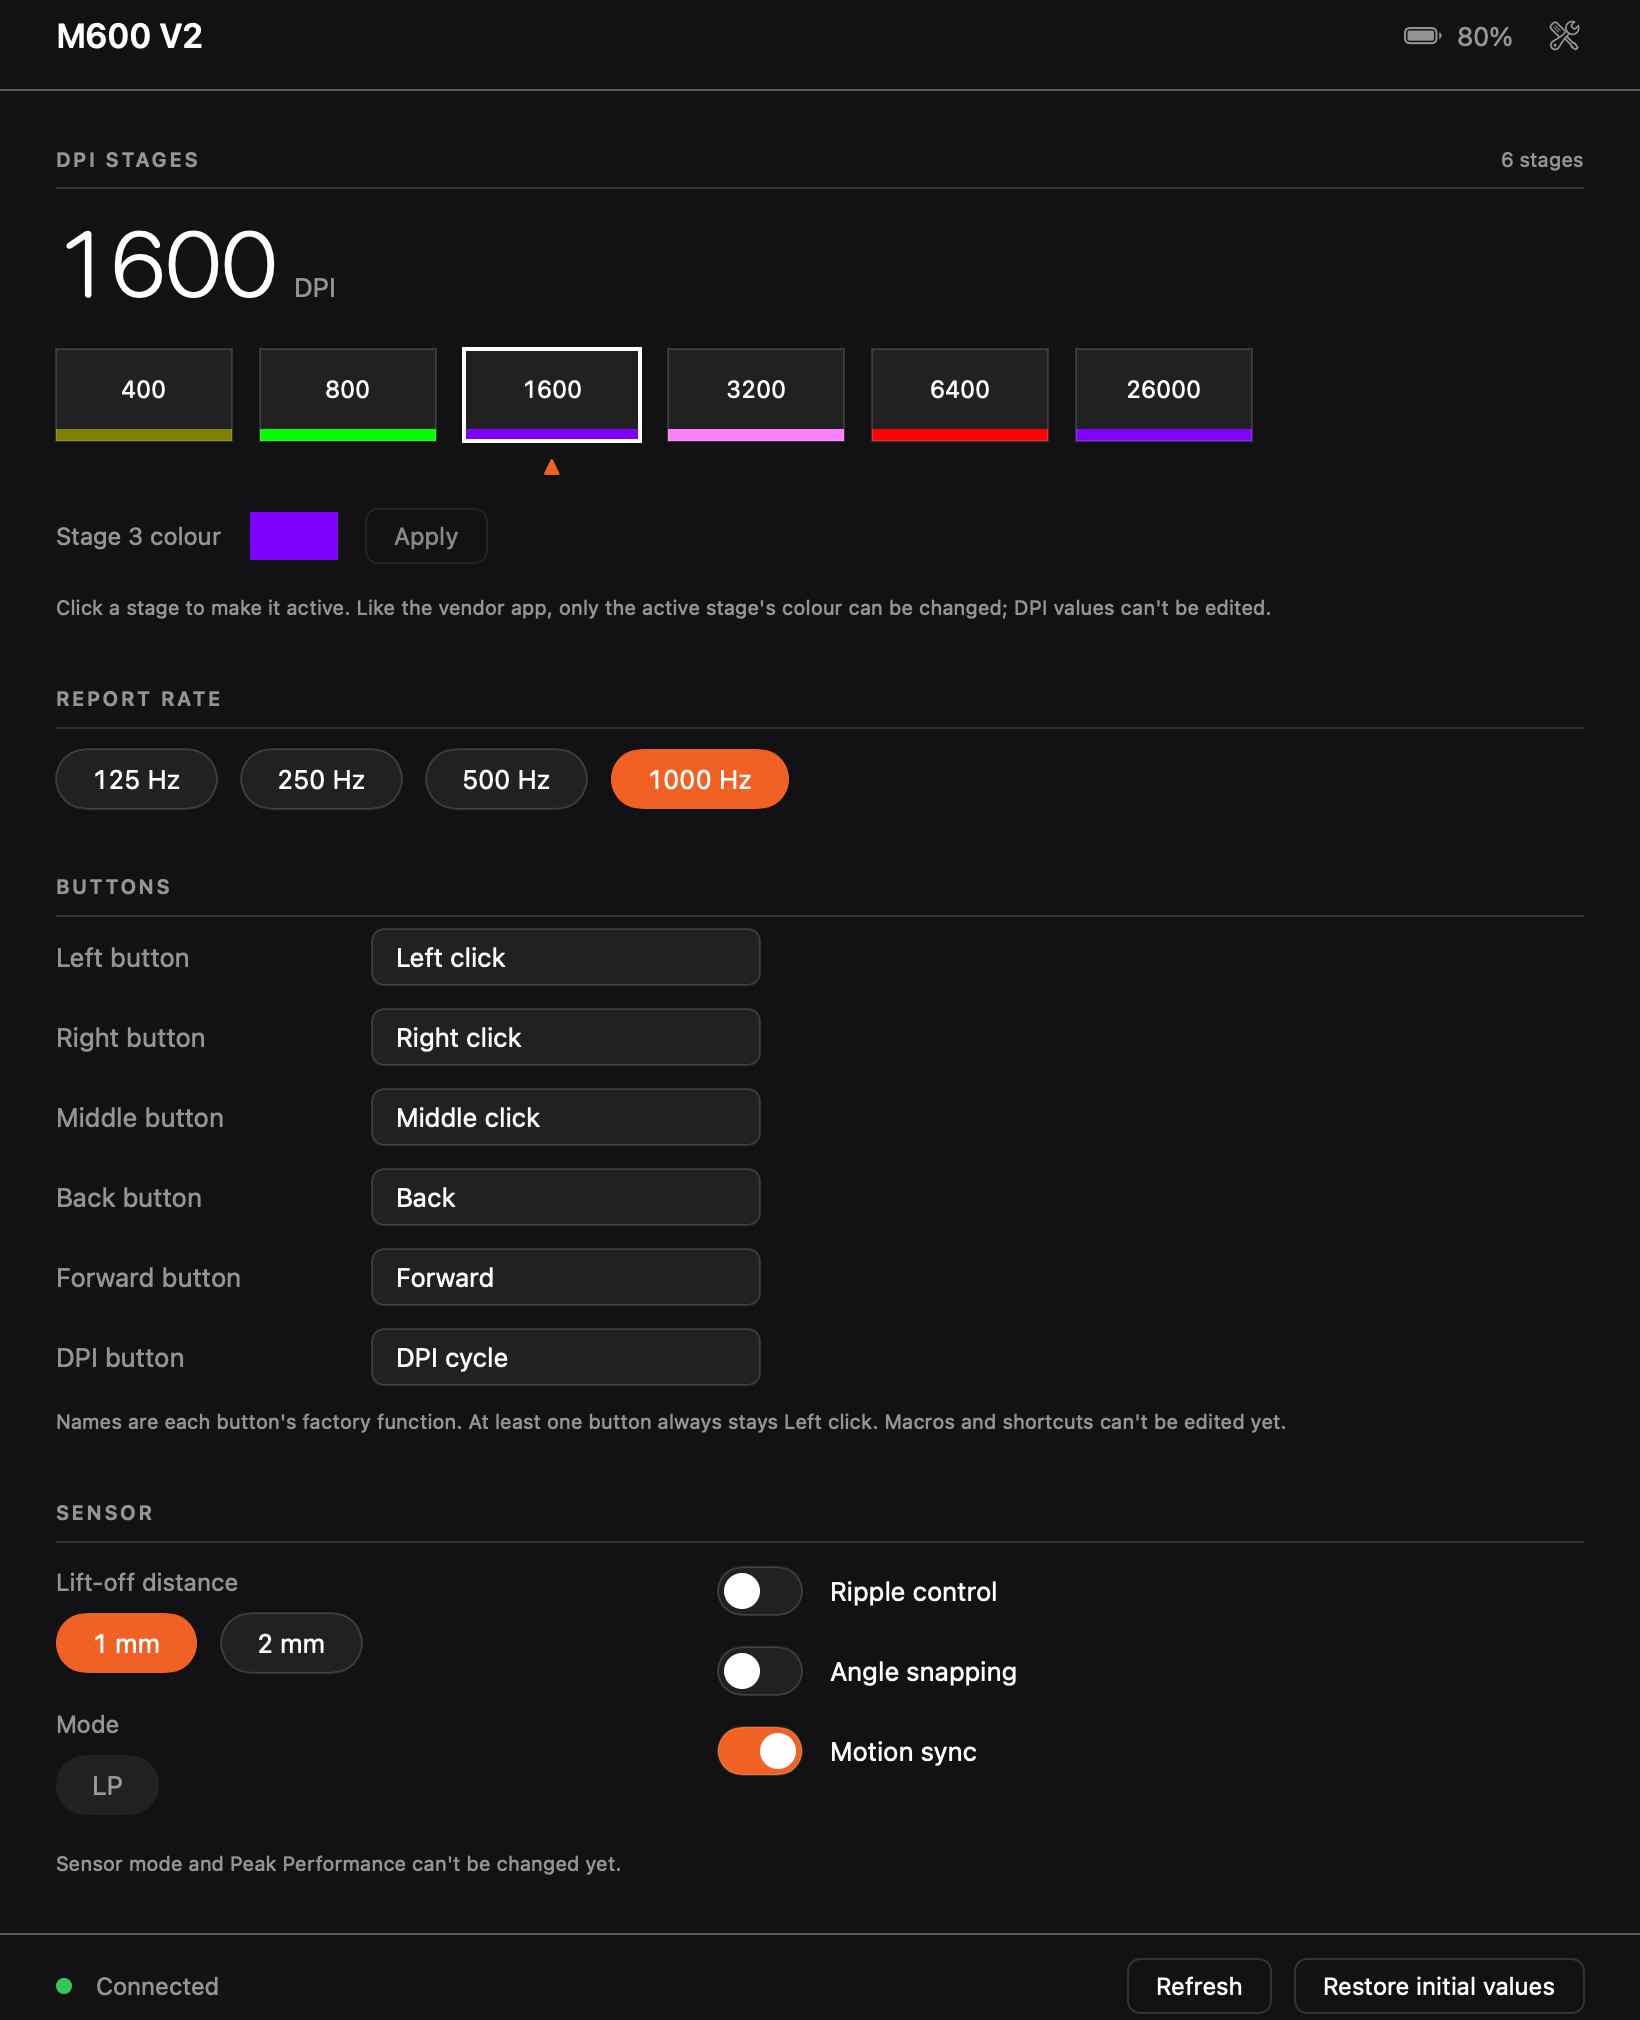
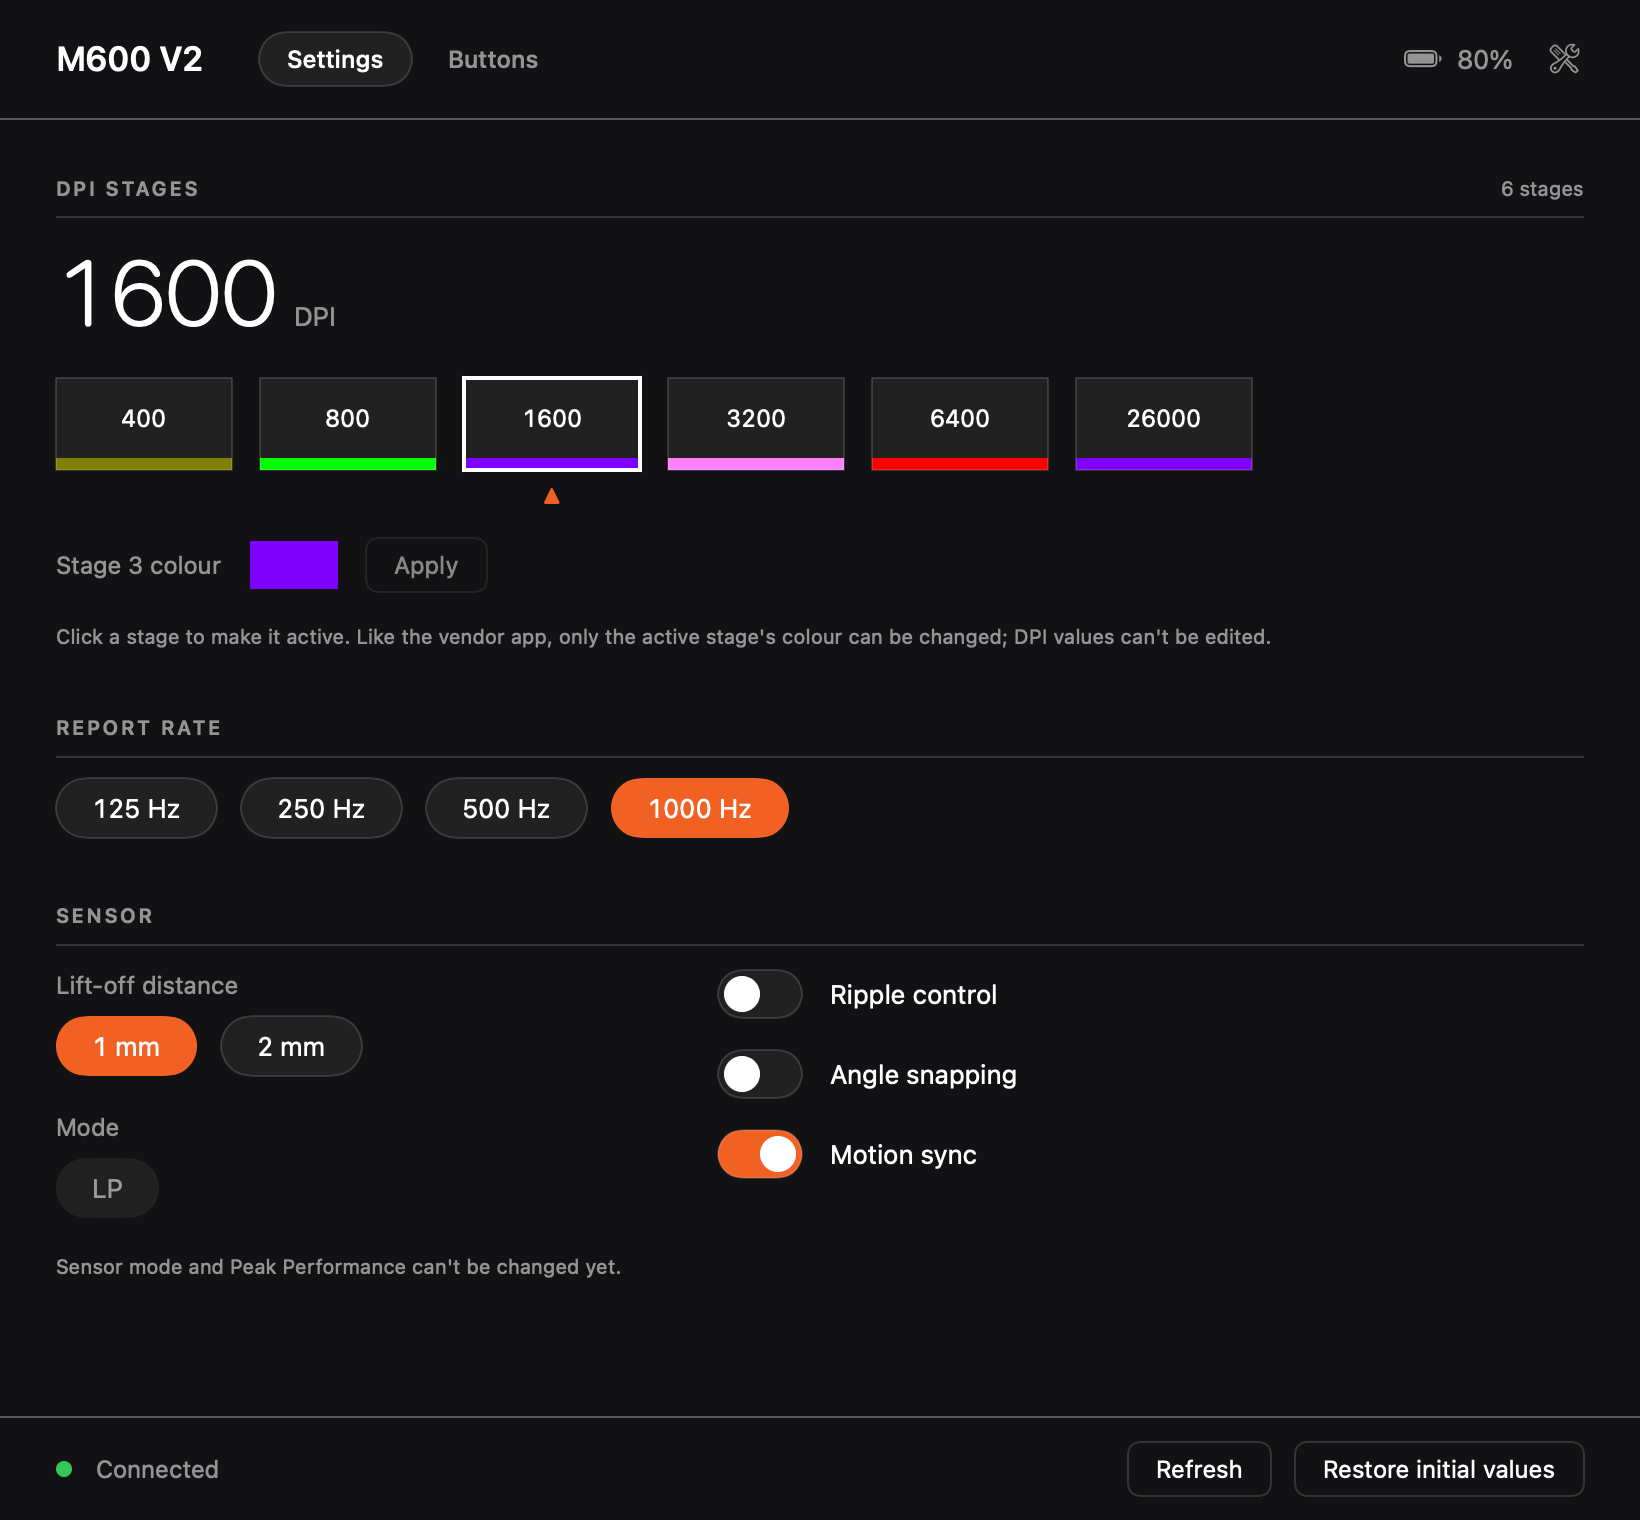
Add a Buttons tab with a drawn mouse and numbered buttons
Settings and Buttons are now separate tabs. The Buttons tab shows our own
top-view mouse drawing with the six buttons numbered like the vendor app,
and a function menu per button. Numbers 4 and 5 map to flash slots 4 and 3
(the vendor shows 4 = Forward, 5 = Back).

diff --git a/Sources/OpenMouseApp/ButtonsTab.swift b/Sources/OpenMouseApp/ButtonsTab.swift
@@ -1,0 +1,160 @@
+import SwiftUI
+import OpenMouseKit
+
+/// One of the six physical buttons, numbered like the vendor app numbers them.
+struct PhysicalButton: Identifiable {
+    let number: Int
+    let name: String
+    /// Index into the mouse's key table. Buttons 4 and 5 are in the opposite order to flash:
+    /// the vendor app shows 4 = Forward (`01 10`, flash slot 4) and 5 = Back (`01 08`, slot 3).
+    /// Which side button is which is inferred from that layout, not confirmed by pressing them.
+    let slot: Int
+    /// Marker position on the 300 x 440 mouse drawing.
+    let marker: CGPoint
+    var id: Int { number }
+
+    static let all: [PhysicalButton] = [
+        PhysicalButton(number: 1, name: "Left button", slot: 0, marker: CGPoint(x: 100, y: 105)),
+        PhysicalButton(number: 2, name: "Right button", slot: 1, marker: CGPoint(x: 200, y: 105)),
+        PhysicalButton(number: 3, name: "Middle button", slot: 2, marker: CGPoint(x: 150, y: 71)),
+        PhysicalButton(number: 4, name: "Side button, front", slot: 4, marker: CGPoint(x: 46, y: 215)),
+        PhysicalButton(number: 5, name: "Side button, rear", slot: 3, marker: CGPoint(x: 46, y: 270)),
+        PhysicalButton(number: 6, name: "DPI button", slot: 5, marker: CGPoint(x: 150, y: 130)),
+    ]
+}
+
+/// Our own top-view drawing of a right-handed mouse; no vendor artwork.
+private struct MouseBody: Shape {
+    func path(in rect: CGRect) -> Path {
+        let sx = rect.width / 300, sy = rect.height / 440
+        func pt(_ x: CGFloat, _ y: CGFloat) -> CGPoint { CGPoint(x: rect.minX + x * sx, y: rect.minY + y * sy) }
+        var p = Path()
+        p.move(to: pt(150, 8))
+        p.addCurve(to: pt(238, 60), control1: pt(200, 8), control2: pt(228, 30))
+        p.addCurve(to: pt(262, 200), control1: pt(250, 100), control2: pt(266, 150))
+        p.addCurve(to: pt(240, 360), control1: pt(258, 260), control2: pt(256, 320))
+        p.addCurve(to: pt(150, 432), control1: pt(228, 405), control2: pt(196, 432))
+        p.addCurve(to: pt(62, 360), control1: pt(104, 432), control2: pt(72, 405))
+        p.addCurve(to: pt(44, 220), control1: pt(50, 320), control2: pt(40, 270))
+        p.addCurve(to: pt(62, 60), control1: pt(48, 150), control2: pt(50, 100))
+        p.addCurve(to: pt(150, 8), control1: pt(72, 30), control2: pt(100, 8))
+        p.closeSubpath()
+        return p
+    }
+}
+
+struct ButtonsTab: View {
+    @EnvironmentObject var model: AppModel
+    var enabled: Bool
+    /// False only for the preview image: `ImageRenderer` cannot draw a Menu.
+    var scrollable = true
+    @State private var selected: Int? = 1
+
+    var body: some View {
+        VStack(alignment: .leading, spacing: 20) {
+            HStack(alignment: .top, spacing: 48) {
+                illustration
+                VStack(alignment: .leading, spacing: 10) {
+                    if model.keys.count < KeyMap.physicalSlots.count {
+                        Text("Waiting for the mouse…").foregroundStyle(Theme.dim)
+                    } else {
+                        ForEach(PhysicalButton.all) { row($0) }
+                    }
+                    Text("Pick a number on the mouse or in the list, then choose its function. At least one button always stays Left click. Macros and shortcuts can't be edited yet.")
+                        .font(.caption).foregroundStyle(Theme.dim)
+                        .fixedSize(horizontal: false, vertical: true)
+                        .padding(.top, 10)
+                }
+                .frame(maxWidth: 420, alignment: .leading)
+            }
+        }
+        .padding(28)
+        .frame(maxWidth: .infinity, alignment: .leading)
+    }
+
+    // MARK: drawing
+
+    private var illustration: some View {
+        ZStack {
+            MouseBody()
+                .fill(LinearGradient(colors: [Color(white: 0.94), Color(white: 0.72)],
+                                     startPoint: .topLeading, endPoint: .bottomTrailing))
+            MouseBody().stroke(Color(white: 0.35), lineWidth: 2)
+            // Split between the two main buttons and the palm area.
+            Path { p in
+                p.move(to: CGPoint(x: 150, y: 8)); p.addLine(to: CGPoint(x: 150, y: 46))
+                p.move(to: CGPoint(x: 150, y: 96)); p.addLine(to: CGPoint(x: 150, y: 166))
+                p.move(to: CGPoint(x: 56, y: 172))
+                p.addQuadCurve(to: CGPoint(x: 252, y: 172), control: CGPoint(x: 150, y: 190))
+            }
+            .stroke(Color(white: 0.45), lineWidth: 1.5)
+            // Scroll wheel.
+            RoundedRectangle(cornerRadius: 9).fill(Color(white: 0.25))
+                .frame(width: 24, height: 54).position(x: 150, y: 71)
+            // DPI button.
+            RoundedRectangle(cornerRadius: 5).fill(Color(white: 0.55))
+                .frame(width: 22, height: 12).position(x: 150, y: 130)
+            // Side buttons on the thumb side.
+            ForEach([PhysicalButton.all[3], PhysicalButton.all[4]]) { b in
+                RoundedRectangle(cornerRadius: 5).fill(Color(white: 0.55))
+                    .frame(width: 12, height: 40).position(x: b.marker.x + 12, y: b.marker.y)
+            }
+            ForEach(PhysicalButton.all) { marker($0) }
+        }
+        .frame(width: 300, height: 440)
+    }
+
+    private func marker(_ b: PhysicalButton) -> some View {
+        let on = selected == b.number
+        return Button { selected = b.number } label: {
+            Text("\(b.number)").font(.callout.weight(.semibold)).monospacedDigit()
+                .frame(width: 28, height: 28)
+                .background(on ? Theme.accent : Color(white: 0.12), in: Circle())
+                .overlay(Circle().stroke(Theme.accent, lineWidth: 2))
+                .foregroundStyle(.white)
+        }
+        .buttonStyle(.plain)
+        .position(b.marker)
+    }
+
+    // MARK: list
+
+    private func row(_ b: PhysicalButton) -> some View {
+        let on = selected == b.number
+        return HStack(spacing: 12) {
+            Text("\(b.number)").font(.caption.weight(.semibold)).monospacedDigit()
+                .frame(width: 22, height: 22)
+                .background(on ? Theme.accent : Color.clear, in: Circle())
+                .overlay(Circle().stroke(Theme.accent, lineWidth: 1.5))
+            Text(b.name).foregroundStyle(on ? .white : Theme.dim).frame(width: 150, alignment: .leading)
+            functionMenu(slot: b.slot)
+        }
+        .contentShape(Rectangle())
+        .onTapGesture { selected = b.number }
+    }
+
+    @ViewBuilder private func functionMenu(slot: Int) -> some View {
+        let current = model.keys[slot]
+        if let current, current.isEditable, scrollable {
+            Menu {
+                ForEach(KeyFunction.choices, id: \.title) { choice in
+                    Button(choice.title) { model.changeKey(slot: slot, to: choice) }
+                }
+            } label: { chip(current.title) }
+            .menuStyle(.borderlessButton).menuIndicator(.hidden).fixedSize()
+            .disabled(!enabled)
+        } else if let current, current.isEditable {
+            // ImageRenderer can't draw a Menu, so the preview image shows the same chip as text.
+            chip(current.title)
+        } else {
+            Text(current?.title ?? "unreadable").foregroundStyle(Theme.dim)
+        }
+    }
+
+    private func chip(_ title: String) -> some View {
+        Text(title).frame(width: 150, alignment: .leading)
+            .padding(.horizontal, 12).padding(.vertical, 6)
+            .background(Theme.panel, in: RoundedRectangle(cornerRadius: 6))
+            .overlay(RoundedRectangle(cornerRadius: 6).stroke(Theme.hairline))
+    }
+}

diff --git a/Sources/OpenMouseApp/MouseView.swift b/Sources/OpenMouseApp/MouseView.swift
@@ -12,10 +12,19 @@ enum Theme {
 }
 
 struct MouseView: View {
+    enum Tab: String, CaseIterable { case settings = "Settings", buttons = "Buttons" }
+
     @EnvironmentObject var model: AppModel
     var onDiagnostics: () -> Void = {}
     /// False only for the preview image: `ImageRenderer` cannot draw a ScrollView.
     var scrollable = true
+    @State private var tab: Tab
+
+    init(onDiagnostics: @escaping () -> Void = {}, scrollable: Bool = true, tab: Tab = .settings) {
+        self.onDiagnostics = onDiagnostics
+        self.scrollable = scrollable
+        _tab = State(initialValue: tab)
+    }
 
     /// Colour being picked for the active stage; written only when Apply is pressed, so dragging
     /// in the picker doesn't send a flash write per frame.
@@ -27,7 +36,7 @@ struct MouseView: View {
         VStack(spacing: 0) {
             header
             Divider().overlay(Theme.hairline)
-            if scrollable { ScrollView { content } } else { content; Spacer(minLength: 0) }
+            if scrollable { ScrollView { page } } else { page; Spacer(minLength: 0) }
             Divider().overlay(Theme.hairline)
             footer
         }
@@ -36,11 +45,17 @@ struct MouseView: View {
         .preferredColorScheme(.dark)
     }
 
+    @ViewBuilder private var page: some View {
+        switch tab {
+        case .settings: content
+        case .buttons: ButtonsTab(enabled: enabled, scrollable: scrollable)
+        }
+    }
+
     private var content: some View {
         VStack(alignment: .leading, spacing: 32) {
             dpiSection
             rateSection
-            buttonSection
             sensorSection
         }
         .padding(28)
@@ -52,6 +67,19 @@ struct MouseView: View {
     private var header: some View {
         HStack(spacing: 16) {
             Text("M600 V2").font(.title2.weight(.semibold))
+            HStack(spacing: 4) {
+                ForEach(Tab.allCases, id: \.self) { t in
+                    Button { tab = t } label: {
+                        Text(t.rawValue).font(.callout.weight(.medium))
+                            .padding(.horizontal, 14).padding(.vertical, 6)
+                            .background(tab == t ? Theme.panel : Color.clear, in: Capsule())
+                            .overlay(Capsule().stroke(tab == t ? Theme.hairline : Color.clear))
+                            .foregroundStyle(tab == t ? Color.white : Theme.dim)
+                    }
+                    .buttonStyle(.plain)
+                }
+            }
+            .padding(.leading, 12)
             Spacer()
             if let b = model.battery {
                 HStack(spacing: 6) {
@@ -188,56 +216,6 @@ struct MouseView: View {
                     }
                 }
             }
-        }
-    }
-
-    // MARK: buttons
-
-    /// Named by each button's factory function (its default in the mouse's flash).
-    private static let buttonNames = ["Left button", "Right button", "Middle button",
-                                      "Back button", "Forward button", "DPI button"]
-
-    private var buttonSection: some View {
-        VStack(alignment: .leading, spacing: 12) {
-            sectionTitle("Buttons")
-            if model.keys.count < KeyMap.physicalSlots.count {
-                Text("Waiting for the mouse…").foregroundStyle(Theme.dim)
-            } else {
-                ForEach(Array(KeyMap.physicalSlots), id: \.self) { slot in
-                    HStack {
-                        Text(Self.buttonNames[slot]).foregroundStyle(Theme.dim).frame(width: 150, alignment: .leading)
-                        buttonMenu(slot)
-                    }
-                }
-            }
-            Text("Names are each button's factory function. At least one button always stays Left click. Macros and shortcuts can't be edited yet.")
-                .font(.caption).foregroundStyle(Theme.dim)
-        }
-    }
-
-    @ViewBuilder private func buttonMenu(_ slot: Int) -> some View {
-        let current = model.keys[slot]
-        if let current, current.isEditable, scrollable {
-            Menu {
-                ForEach(KeyFunction.choices, id: \.title) { choice in
-                    Button(choice.title) { model.changeKey(slot: slot, to: choice) }
-                }
-            } label: {
-                Text(current.title).frame(width: 170, alignment: .leading)
-                    .padding(.horizontal, 12).padding(.vertical, 6)
-                    .background(Theme.panel, in: RoundedRectangle(cornerRadius: 6))
-                    .overlay(RoundedRectangle(cornerRadius: 6).stroke(Theme.hairline))
-            }
-            .menuStyle(.borderlessButton).menuIndicator(.hidden).fixedSize()
-            .disabled(!enabled)
-        } else if let current, current.isEditable {
-            // ImageRenderer can't draw a Menu, so the preview image shows the same chip as text.
-            Text(current.title).frame(width: 170, alignment: .leading)
-                .padding(.horizontal, 12).padding(.vertical, 6)
-                .background(Theme.panel, in: RoundedRectangle(cornerRadius: 6))
-                .overlay(RoundedRectangle(cornerRadius: 6).stroke(Theme.hairline))
-        } else {
-            Text(current?.title ?? "unreadable").foregroundStyle(Theme.dim)
         }
     }
 

diff --git a/Sources/OpenMouseApp/OpenMouseApp.swift b/Sources/OpenMouseApp/OpenMouseApp.swift
@@ -14,15 +14,17 @@ struct OpenMouseApp: App {
     }
 }
 
-/// `OpenMouse --render-preview out.png` saves the main view with fixed demo values and quits.
+/// `OpenMouse --render-preview out.png [buttons]` saves the main view (or its Buttons tab) with
+/// fixed demo values and quits.
 /// Used to look at the layout without a mouse attached.
 @MainActor
 private func renderPreviewIfRequested() {
     let args = CommandLine.arguments
     guard let i = args.firstIndex(of: "--render-preview"), i + 1 < args.count else { return }
-    let renderer = ImageRenderer(content: MouseView(scrollable: false)
+    let buttons = args.count > i + 2 && args[i + 2] == "buttons"
+    let renderer = ImageRenderer(content: MouseView(scrollable: false, tab: buttons ? .buttons : .settings)
         .environmentObject(AppModel.demo())
-        .frame(width: 820, height: 1010))
+        .frame(width: 820, height: buttons ? 640 : 760))
     renderer.scale = 2
     if let tiff = renderer.nsImage?.tiffRepresentation, let rep = NSBitmapImageRep(data: tiff),
        let png = rep.representation(using: .png, properties: [:]) {

diff --git a/README.md b/README.md
@@ -3,9 +3,10 @@
 An unofficial macOS app for configuring the Kysona M600 V2 mouse, written from scratch in Swift.
 The vendor's configuration tool only runs on Windows.
 
-![Main window](docs/preview.png)
+![Settings tab](docs/preview.png)
+![Buttons tab](docs/preview-buttons.png)
 
-*The picture is rendered with demo values (`OpenMouse --render-preview out.png`), no mouse attached.*
+*The pictures are rendered with demo values (`OpenMouse --render-preview out.png [buttons]`), no mouse attached. The mouse drawing is our own, not vendor artwork.*
 
 ## Status
 
